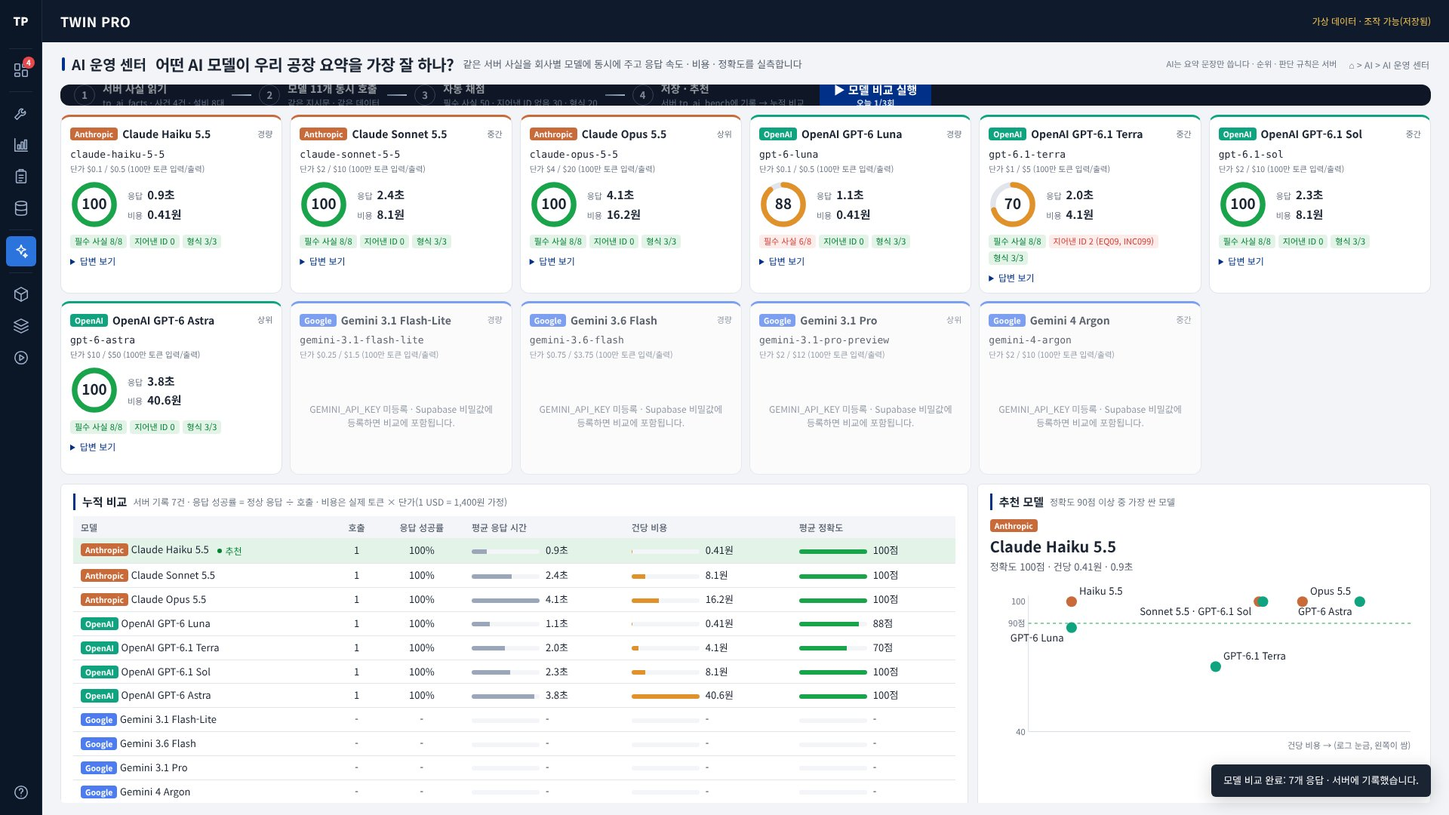
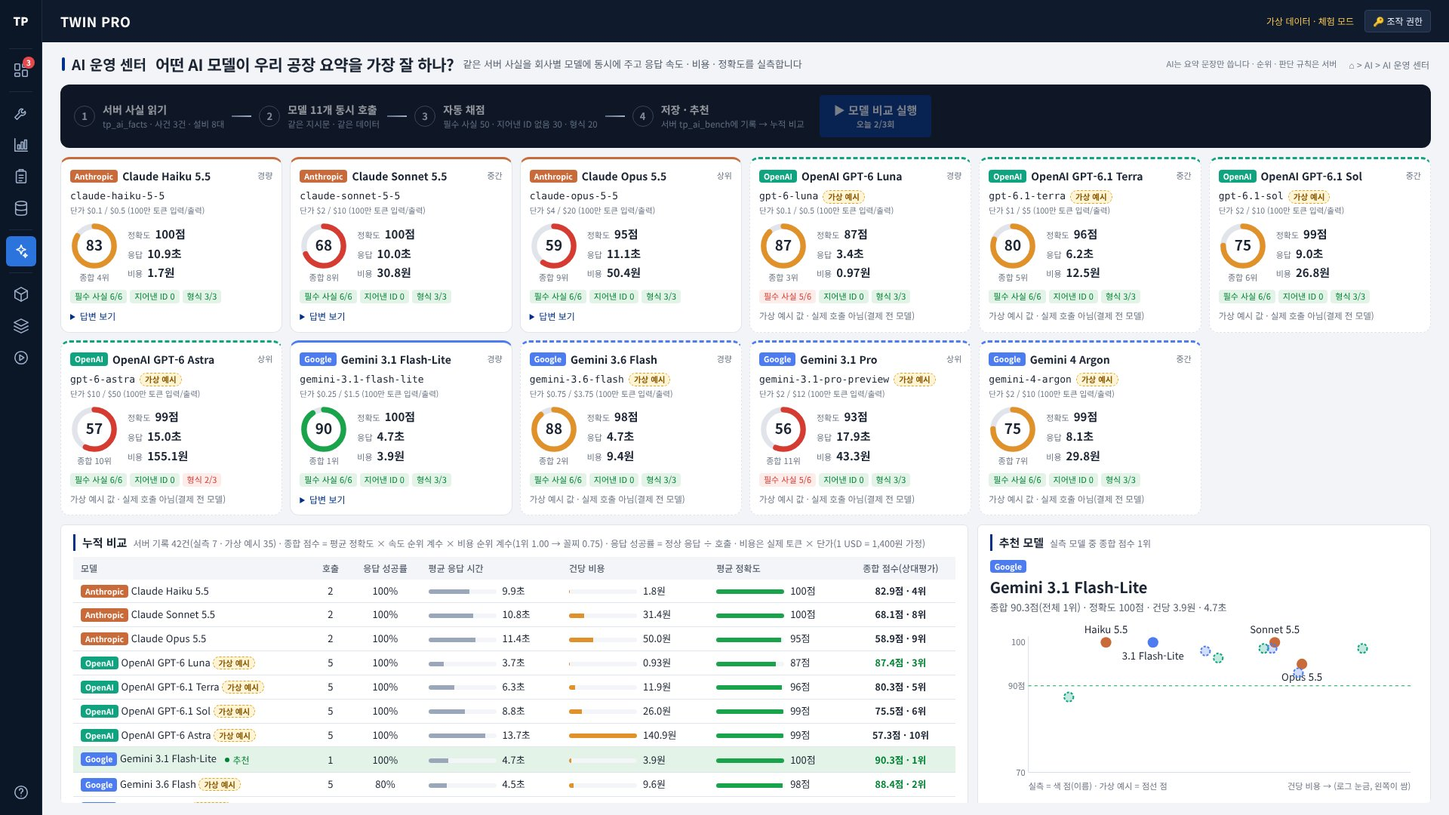
README 2026-11-01 반영: AI 하루 10회 · 확장 SQL 한 번에 적용 · 휴대폰 화면 3개 · AI 운영 센터 상대평가와 가상 예시 · 검증 결과
Claude-Session: https://claude.ai/code/session_0118yJohinjDPUbRGhyax1CZ

Changed region(s): [[0.0312, 0.0917, 1.0, 0.9778], [0.7188, 0.8861, 1.0, 1.0], [0.875, 0.0, 1.0, 0.0611]]

diff --git a/README.md b/README.md
@@ -46,7 +46,7 @@
 조선 블록 제작 운영 모니터링 시연 시스템입니다. 관제·관리 화면 5개(01H 확정안: 관제 대시보드 · 설비 상태 · 생산 현황 · 작업 관리 · 기준정보)와 3D 확장 화면(3D 조선소 · 블록 내부 3D · 공정 교육 재생), Supabase(Postgres) 서버 함수로 구성되어 있으며, 받은 엑셀(`02 가상데이터.xlsx`) 15개 시트를 그대로 DB에 올려 사용합니다.
 
 - 화면 주소: **https://develop-korea-tech.github.io/twinpro-demo/** (GitHub Pages, 저장소 develop-korea-tech/twinpro-demo)
-- 화면 파일: `index.html` 한 파일(2026-10-24 빌드, 이후 사이드바 수정 포함). 전체 소스 패키지에서는 같은 빌드 결과물의 이름이 `twinpro.html`입니다. 이 문서에서는 화면 파일을 모두 `index.html`로 적습니다.
+- 화면 파일: `index.html` 한 파일(2026-11-01 빌드). 전체 소스 패키지에서는 같은 빌드 결과물의 이름이 `twinpro.html`입니다. 이 문서에서는 화면 파일을 모두 `index.html`로 적습니다.
 - 서버: Supabase 프로젝트 `twinpro-demo`(서울 리전)
   - 주소: `https://rrgvqgphhwzkeuvdwndu.supabase.co` (`index.html`에 이미 들어 있습니다)
   - 시연 코드: 팀 단톡방에서 따로 공유합니다.
@@ -62,17 +62,20 @@
 
 | 파일 | 크기 | 설명 |
 |---|---|---|
-| `index.html` | 약 1.9MB | 시연 화면(2026-10-31 빌드, 관리 화면 3개 [그림] 보기 · 작업 관리 우선순위 추가 · 기준정보는 표만). 화면 코드(계산 · 서버 연결 · 화면 · 3D), 그림 자료(사건 설명도 3개, 공정 썸네일 6장, 아이콘), 서버 주소와 공개(anon) 키가 한 파일에 들어 있습니다. 데이터 행은 들어 있지 않고, 열 때마다 서버에서 읽습니다. 전체 소스 패키지의 `twinpro.html`과 같은 빌드 결과물입니다. |
+| `index.html` | 약 2.1MB | 시연 화면(2026-11-01 빌드: 휴대폰 화면 3개만 · AI 요약 하루 10회 · AI 운영 센터 상대평가 종합 점수와 가상 예시 표시). 화면 코드(계산 · 서버 연결 · 화면 · 3D), 그림 자료(사건 설명도 3개, 공정 썸네일 6장, 아이콘), 서버 주소와 공개(anon) 키가 한 파일에 들어 있습니다. 데이터 행은 들어 있지 않고, 열 때마다 서버에서 읽습니다. 전체 소스 패키지의 `twinpro.html`과 같은 빌드 결과물입니다. |
 | `twinpro_shipyard.glb` | 약 7.5MB | 3D 조선소 모델(Blender에서 내보낸 glTF). `index.html`과 **같은 폴더**에 있어야 3D 조선소 · 공정 교육 재생 화면이 열립니다. |
 | `favicon.svg` · `favicon.png` | 약 1KB · 9KB | 브라우저 탭 아이콘 원본(어두운 남색 바탕에 실제 블록(입체) + 디지털 쌍둥이(하늘색 윤곽)). `index.html` 안에 이미 넣어 두어 이 파일이 없어도 탭에 아이콘이 나옵니다. |
 | `supabase_priority.sql` | 약 8KB | 작업 관리 우선순위 확장 SQL(2026-10-31): 온톨로지 뷰 `tp_v_ontology`, 순위 함수 `tp_priority()`, AI 우선순위 요약 저장 표 `tp_ai_priority`와 함수, 보안 설정. 기존 표 · 함수는 바꾸지 않고 추가만 합니다(2-1). |
 | `supabase_equipment.sql` | 약 31KB | 설비 붙이기 / 없애기 SQL(2026-10-31): 설비 사용 여부 칸 `active`, 추가 `tp_equipment_add` · 사용 중지 `tp_equipment_set_active` · 삭제 `tp_equipment_delete`, 초기화 때 원본 8대로 복원. 사용 중지 설비를 상태 개수 · AI 사실 · 대체 후보 · 설비 변경 · 신호 입구에서 빼도록 기존 함수 7개를 조건 한 줄을 더해 다시 만듭니다. **다른 확장 SQL 4개를 먼저 실행한 뒤** 실행합니다. 적용 전에는 설비 탭이 읽기 전용으로 보입니다. |
+| `supabase_1101_all.sql` | 약 63KB | 확장 SQL 한 번에 적용(2026-11-01): `supabase_priority.sql` → `supabase_io.sql` → `supabase_live.sql` → `supabase_ai_bench.sql` → `supabase_equipment.sql` → `supabase_ai_limit10.sql`을 이 순서로 이어 붙인 파일입니다. 새 서버에는 `supabase_setup.sql` 다음에 이 파일 하나만 실행하면 됩니다. 시연 서버에는 2026-11-01에 적용했습니다. |
+| `supabase_ai_limit10.sql` | 약 1KB | AI 요약 하루 사용 한도를 5회 → 10회로 바꾸는 SQL(2026-11-01, `tp_ai_claim` 다시 만듦). `supabase_1101_all.sql`에 포함되어 있습니다. |
+| `supabase_ai_bench_example.sql` | 약 9KB | AI 운영 센터 **가상 예시** 기록(2026-11-01): `tp_ai_bench`에 `simulated` 칸을 추가하고, 결제 전이라 실측하지 못한 7개 모델(GPT 4개, Gemini 3.6 Flash · 3.1 Pro · 4 Argon)에 모델별 5회 예시 값을 넣습니다. 실제 호출 결과가 아닙니다. 화면은 「가상 예시」 배지로 구분하고 추천에서 뺍니다. 지울 때는 `delete from tp_ai_bench where simulated;` 한 줄이면 됩니다. |
 | `supabase_ai_bench.sql` | 약 9KB | AI 운영 센터 SQL(2026-10-31): 비교 모델 목록 · 단가 `tp_ai_model`, 실측 기록 `tp_ai_bench`, 하루 3회차 제한, 자동 채점 `tp_ai_bench_score`, 저장 `tp_ai_bench_save`(Edge Function 전용) |
 | `supabase/functions/tp-ai-summary/index.ts` | 약 9KB | AI Edge Function 코드: 운영 요약 · 우선순위 요약 · 모델 비교(mode = 'bench', Anthropic · OpenAI · Google). 키는 Supabase 비밀값에만 둡니다 |
 | `supabase_live.sql` | 약 9KB | 운영 추이 연출 SQL(2026-10-31): 설비별 일 집계 `tp_daily`(2026-01-01~09-15 가상 이력 + 09-16 기준일 + 연출일), 당일 데이터 `tp_live_signal`(시스템 입력 + 설비 신호), 생성 함수, 1분 예약 작업 `tp_live_tick`(pg_cron). 적용 전에도 화면은 같은 식으로 계산해 동작합니다. |
 | `supabase_io.sql` | 약 6KB | 현장 데이터 수집 연결 확장 SQL(2026-10-31): 수집 포인트 표 `tp_io_point`(설비 8대 × 3포인트, 가상 기준정보), 신호 기록에 출처(SIM · MODBUS · ETOS) 칸 추가, 신호 입구 `tp_ingest_signal`에 출처 인자 추가(기존 호출은 그대로 동작). 적용 전에도 화면은 같은 정의의 기본값으로 동작합니다. |
 | `tools/io_bridge/` | 약 30KB | 연결 프로그램(파이썬, 설치 불필요): LS XGT PLC(Modbus TCP) · AC&T ETOS(XGT FEnet) 값을 읽어 서버 입구로 보냄 + 가상 현장 장비. 사용법은 폴더 안 `README.md` |
-| `docs/screen-ai.jpg` | 약 250KB | 화면 캡처: AI 운영 센터(모델 11개의 응답 시간 · 비용 · 정확도, 누적 비교 · 추천) |
+| `docs/screen-ai.jpg` | 약 300KB | 화면 캡처: AI 운영 센터(모델 11개의 종합 점수 · 응답 시간 · 비용 · 정확도, 「가상 예시」 배지, 누적 비교 · 추천, 2026-11-01) |
 | `docs/screen-base-eq.jpg` | 약 200KB | 화면 캡처: 기준정보 → 설비(설비 추가 · 사용 중지 · 삭제) |
 | `docs/screen-trend.jpg` | 약 200KB | 화면 캡처: 생산 현황 [추이](연간 월별 가동률 · 일별 · 당일 데이터 수집) |
 | `docs/screen-io.jpg` | 약 250KB | 화면 캡처: 현장 데이터 수집 연결 구조(통합 관제 「데이터 수집」 칩) |
@@ -123,7 +126,7 @@
    - 카드 바깥을 누르거나 Esc를 누르면 재생 없이 닫힙니다.
    - 한 번 닫으면 이 브라우저에서는 다시 뜨지 않습니다. 왼쪽 사이드바 맨 아래 안내 아이콘(휴대폰에서는 오른쪽 위 [? 안내])을 누르면 다시 열립니다.
 3. **왼쪽 사이드바와 위쪽 막대를 확인합니다.** 모든 화면에 같습니다.
-   - 왼쪽 아이콘 사이드바(2026-10-24): 위에서부터 모니터링(통합 관제), 관리(설비 상태 · 생산 현황 · 작업 관리 · 기준정보), 3D(3D 조선소 · 블록 내부 3D · 공정 교육 재생), 맨 아래 안내. 폭은 늘 56px로 내용을 가리지 않고, 아이콘에 마우스를 올리면 그 아이콘 옆에만 이름표가 나옵니다. 지금 화면은 파란색, 통합 관제 아이콘의 빨간 숫자는 미해결 사건 수입니다. 처음 화면은 통합 관제(관제 대시보드)입니다. 폭 760px 이하(휴대폰)에서는 사이드바 대신 위쪽 탭과 [관리 화면 ▾]가 나옵니다.
+   - 왼쪽 아이콘 사이드바(2026-10-24): 위에서부터 모니터링(통합 관제), 관리(설비 상태 · 생산 현황 · 작업 관리 · 기준정보), 3D(3D 조선소 · 블록 내부 3D · 공정 교육 재생), 맨 아래 안내. 폭은 늘 56px로 내용을 가리지 않고, 아이콘에 마우스를 올리면 그 아이콘 옆에만 이름표가 나옵니다. 지금 화면은 파란색, 통합 관제 아이콘의 빨간 숫자는 미해결 사건 수입니다. 처음 화면은 통합 관제(관제 대시보드)입니다. 폭 760px 이하(휴대폰)에서는 사이드바 대신 위쪽 탭이 나오고, 2026-11-01부터 **통합 관제 · 블록 내부 3D · 공정 교육 재생 3개만** 보입니다(3D 조선소 · 관리 화면 버튼 숨김). 휴대폰에서 다른 화면 주소(#eq 등)로 들어오면 통합 관제로 돌아갑니다. 발표 표지의 QR 코드는 이 화면 주소로 연결됩니다.
    - 가운데: 사건을 선택하면 「◎ 추적 중: B008 · 03 블록 용접 · 설비 고장」처럼 추적 중인 사건이 표시됩니다. ✕를 누르면 해제됩니다.
    - 위쪽 막대 오른쪽: 「가상 데이터 · 체험 모드」(조작 권한이 있으면 「가상 데이터 · 조작 가능(저장됨)」) · [🔑 조작 권한]
    - 화면을 바꾸면 주소 끝이 `#dash`(통합 관제), `#3d`(3D 조선소), `#blk`(블록 내부 3D), `#eq` · `#prod` · `#wo` · `#base`(관리 화면 4개)로 바뀝니다. 이 주소로 열거나 새로고침하면 그 화면이 바로 열립니다. 주소 끝은 화면을 처음 열 때만 읽으므로, 주소 끝만 고친 뒤에는 새로고침합니다.
@@ -142,7 +145,7 @@
    - 설비 그림(2026-10-30 교체): 3D 조선소 모델에서 공정마다 설비만 떼어 같은 각도로 렌더한 그림입니다(바닥 · 도로 · 다른 공정은 지움, 투명 배경). 그래서 3D 화면과 모양 · 색이 같습니다. 01 자기 갠트리 크레인과 강재, 02 취부 작업장과 갠트리, 03 용접동 천장 크레인과 블록(지붕 · 벽을 걷어 냄), 04 검사 블록과 측정 타워, 05 도장 부스(벽을 반투명으로)와 블록, 06 블록 운반차입니다. 대기·예비 설비 아이콘은 03 용접동의 이동식 용접기 모델입니다.
    - 카드를 누르면 지도 아래에 「<블록> 상세」(작업지시 · 담당 · 선행 공정 · 위치 · 실적/계획)와 [🔍 내부 현황 (3D)] 버튼(블록 내부 3D로 이동)이 열립니다. 카드를 누르기 전에는 같은 자리에 같은 높이의 안내 줄이 있어서, 눌러도 화면이 위아래로 움직이지 않습니다.
    - 「오늘 공정 타임라인」: 공정 6곳의 08:00~16:00 상태 구간 막대입니다(가동 파랑 · 대기 회색 · 고장 빨강 · 점검 보라). 12:00 세로선 왼쪽은 실적, 오른쪽 빗금은 계획 구간입니다. 사건이 난 시각에 「설비 고장」 · 「자재 대기」 · 「품질 보류」 표시가 붙고, 범례에는 상태별 누적 시간이 나옵니다.
-   - 오른쪽 카드(2026-10-31 정리): 「지금 확인할 것」 하나로, 탭 없이 버튼은 [작업 관리 ›] 하나입니다. 위에서부터 지금 상황 한 줄(「12:00 기준 6개 공정 중 1개 가동 · 실적 74% / 계획 100% · 26%p 지연」) → **AI 운영 요약**(AI(Claude)가 만든 요약, 조작 권한 필요 · 하루 5회. 생성 전에는 「규칙 문장 · AI 생성 전」 표시와 함께 규칙으로 만든 문장을 보여 줌) → **처리 순서** 1·2·3(작업 관리 우선순위와 같은 계산, 각 줄에 지금 단계 표시) → 맨 아래 [요약 복사]입니다.
+   - 오른쪽 카드(2026-10-31 정리): 「지금 확인할 것」 하나로, 탭 없이 버튼은 [작업 관리 ›] 하나입니다. 위에서부터 지금 상황 한 줄(「12:00 기준 6개 공정 중 1개 가동 · 실적 74% / 계획 100% · 26%p 지연」) → **AI 운영 요약**(AI(Claude)가 만든 요약, 조작 권한 필요 · 하루 10회. 생성 전에는 「규칙 문장 · AI 생성 전」 표시와 함께 규칙으로 만든 문장을 보여 줌) → **처리 순서** 1·2·3(작업 관리 우선순위와 같은 계산, 각 줄에 지금 단계 표시) → 맨 아래 [요약 복사]입니다.
    - 처리 순서의 줄이나 [작업 관리 ›]를 누르면 작업 관리 [우선순위] 화면으로 넘어가고, 누른 사건이 선택된 채로 열립니다. 재생 중이면 재생이 자동으로 멈추고 위쪽에 「추적 중」 칩이 나옵니다. 기준시점 미해결 사건은 INC003 설비 고장 · INC004 자재 대기 · INC005 품질 보류 3건입니다.
    - 이전의 「규칙 기반 · AI 요약 · 통계 감지」 탭과 관제 안의 사건 목록 · 처리 단계는 없앴습니다. 사건 처리는 작업 관리 우선순위 카드에서 합니다(6번).
    - 이전 화면의 「작업지시 현황」 표와 「공정별 달성률」 고리 패널은 없앴습니다. 같은 정보가 지도 카드(진행률 고리 · 작업지시)와 작업 관리 화면에 있습니다.
@@ -167,7 +170,7 @@
      - 작업 관리 [우선순위]: 아래 「우선순위 화면 사용법」을 봅니다. [일정표]는 공정 6줄 × 오늘 · 내일 계획 시간에 작업 막대를 놓고, 지금 시각 선과 고장 설비에 잡힌 예정 작업(⚠)을 보여 줍니다.
      - 기준정보는 [그림] 보기가 없습니다(2026-10-31 삭제). 공정 순서 · 설비 사진이 관제 지도 · 설비 지도와 겹쳐서, 기준값을 보는 표만 둡니다.
    - **우선순위 화면 사용법 (작업 관리 · 2026-10-31)**
-     1. 맨 위 요약 문장이 "지금 무엇부터"를 한 문단으로 알려 줍니다. 기본은 규칙으로 만든 문장(「규칙 요약」)입니다. 조작 권한이 있고 서버에 확장(2-1)이 있으면 [AI로 요약]을 눌러 AI 문장으로 바꿀 수 있습니다(AI 운영 요약과 합쳐 하루 5회). AI는 서버가 정한 순서를 문장으로만 옮기고, 순서를 바꾸지 않습니다. 시각이 바뀌면 이전 AI 문장은 숨기고 규칙 문장을 보여 줍니다.
+     1. 맨 위 요약 문장이 "지금 무엇부터"를 한 문단으로 알려 줍니다. 기본은 규칙으로 만든 문장(「규칙 요약」)입니다. 조작 권한이 있고 서버에 확장(2-1)이 있으면 [AI로 요약]을 눌러 AI 문장으로 바꿀 수 있습니다(AI 운영 요약과 합쳐 하루 10회). AI는 서버가 정한 순서를 문장으로만 옮기고, 순서를 바꾸지 않습니다. 시각이 바뀌면 이전 AI 문장은 숨기고 규칙 문장을 보여 줍니다.
      2. 카드 1·2·3은 미해결 사건을 아래 기준 순서로 줄 세운 결과입니다. 예측은 쓰지 않고 지금 기록만 씁니다.
         - ① 공정 전체가 막혔나: 공정 설비가 고장이고 작업이 아직 그 설비에 있음(대체 설비로 옮기면 해제)
         - ② 작업이 지금 멈춰 있나: 연결된 작업이 보류이거나 품질 보류 중
@@ -201,7 +204,7 @@
 
 1. **확장 SQL 실행**
    1. Supabase 대시보드 → 대상 프로젝트 → 왼쪽 메뉴 **SQL Editor** → **New query**를 엽니다.
-   2. 전체 소스 패키지의 확장 SQL 내용을 붙여 넣고 **Run**을 누릅니다. 이전 문서 기준으로 `supabase_step3.sql`(AI 운영 요약·가상 설비 신호·실적 가져오기)이고, 재생 잠금 · 체험 모드는 `sql/07`~`sql/10`에 있습니다. 사건 처리 단계 · 대체 적합성용 SQL의 파일 이름은 이 저장소에서 확인할 수 없습니다.
+   2. 이 저장소의 `supabase_1101_all.sql` 내용을 붙여 넣고 **Run**을 누릅니다(우선순위 · 현장 연결 · 운영 추이 · AI 운영 센터 · 설비 붙이기 / 없애기 · AI 하루 10회가 한 번에 들어갑니다). 그 이전 확장은 전체 소스 패키지의 확장 SQL에 있습니다. 이전 문서 기준으로 `supabase_step3.sql`(AI 운영 요약·가상 설비 신호·실적 가져오기)이고, 재생 잠금 · 체험 모드는 `sql/07`~`sql/10`에 있습니다. 사건 처리 단계 · 대체 적합성용 SQL의 파일 이름은 이 저장소에서 확인할 수 없습니다.
    3. `Success. No rows returned`가 나오면 성공입니다.
 2. **Claude API 키 등록** (AI 운영 요약에만 필요)
    1. Claude Console의 API keys 페이지(https://platform.claude.com/settings/keys)에서 **Create key**로 키를 만듭니다. 키 전체는 만들 때 한 번만 보이니 바로 복사합니다.
@@ -211,7 +214,7 @@
    5. 새 서버라면 Edge Function 배포도 필요합니다(5장 6번).
 3. **화면을 새로고침해 확인합니다.**
    - 가상 시각 옆 ▶를 눌러 오류 없이 시각이 12:05로 바뀌면 재생에 필요한 함수가 들어간 것입니다(체험 모드는 `tp_try_steps`, 조작 권한이면 재생 잠금 · 신호 함수).
-   - 조작 권한을 받은 상태에서 관제 대시보드 「운영 요약」의 「AI 요약」 탭에 [✦ AI 요약 생성 오늘 남은 5회] 버튼이 보이고, 눌렀을 때 요약 문장이 나오면 AI 요약이 준비된 것입니다(하루 5회 중 1회를 씁니다).
+   - 조작 권한을 받은 상태에서 관제 대시보드 「운영 요약」의 「AI 요약」 탭에 [✦ AI 요약 생성 오늘 남은 10회] 버튼이 보이고, 눌렀을 때 요약 문장이 나오면 AI 요약이 준비된 것입니다(하루 10회 중 1회를 씁니다).
 
 ---
 
@@ -315,7 +318,7 @@
 
 ### 3-3. 시연 시 주의
 
-- **AI 요약은 하루 5회**(전체 합산, 한국 시간 0시 초기화)입니다. 리허설에서도 줄어드니 발표 당일에는 아껴 씁니다. 남은 횟수는 버튼의 「오늘 남은 N회」로 봅니다. 다 쓰면 버튼이 비활성되고, 「규칙 기반 사실」 요약은 그대로 볼 수 있습니다.
+- **AI 요약은 하루 10회**(전체 합산, 한국 시간 0시 초기화, 2026-11-01에 5회 → 10회)입니다. 리허설에서도 줄어드니 발표 당일에는 아껴 씁니다. 남은 횟수는 버튼의 「오늘 남은 N회」로 봅니다. 다 쓰면 버튼이 비활성되고, 「규칙 기반 사실」 요약은 그대로 볼 수 있습니다.
 - AI 요약을 만든 뒤 시각이 바뀌거나 조작을 하면 「이후 변경 있음」이 표시됩니다. 다시 생성하면 최신이 됩니다.
 - 사건을 선택하면 가상 시간 재생이 자동으로 멈춥니다. 처리한 뒤 다시 ▶를 누릅니다.
 - 시연이 끝나면 2장 9번대로 초기화합니다. 같은 서버를 보는 모든 화면이 함께 되돌아가니, 팀원이 연습 중일 때는 미리 알리고 누릅니다.
@@ -382,9 +385,9 @@
 | `tp_try_steps` | 체험 모드: 처리 단계(act · check · fit · approve · swap · resume · close · resolve)와 시간 진행(tick)을 코드 없이 실제 규칙으로 실행 → 결과 행을 돌려주고 전부 되돌림(저장 안 됨). 이 함수 안에서만 시연 코드 검사를 통과시킴 | 체험 모드의 처리 단계 · 재생 |
 | `tp_sim_claim` / `tp_sim_release` | 재생 잠금(`tp_sim_lock`): 한 화면만 재생. 재생 중인 화면이 시간을 진행할 때마다 잠금을 연장하고, 멈추면 놓음 | 가상 시간 진행(조작 권한) |
 | `tp_import_progress` | 실적 가져오기: 행마다 R6 검사, 한 행이라도 거부되면 전체 취소(화면은 한 번에 최대 200행) | 작업 관리 [서버에 반영] |
-| Edge Function `tp-ai-summary` | AI 운영 요약: 시연 코드 확인 · 하루 5회 차감(`tp_ai_claim`) → DB 사실 JSON(`tp_ai_facts`) → Claude → 저장(`tp_ai_save`), 실패 시 횟수 복구. 이 서버 함수들은 화면에서 직접 부를 수 없습니다. 화면은 결과를 `tp_ai_summary`, 사용 횟수를 `tp_ai_usage`에서 읽음 | 「AI 요약」 [✦ AI 요약 생성] |
+| Edge Function `tp-ai-summary` | AI 운영 요약: 시연 코드 확인 · 하루 10회 차감(`tp_ai_claim`) → DB 사실 JSON(`tp_ai_facts`) → Claude → 저장(`tp_ai_save`), 실패 시 횟수 복구. 이 서버 함수들은 화면에서 직접 부를 수 없습니다. 화면은 결과를 `tp_ai_summary`, 사용 횟수를 `tp_ai_usage`에서 읽음 | 「AI 요약」 [✦ AI 요약 생성] |
 | `tp_v_ontology` (뷰) · `tp_priority` | 작업 관리 우선순위(`supabase_priority.sql`): 서버 표를 (주어, 관계, 목적어)로 펼친 관계 뷰 — 공정 · 작업구역 · 설비 · 블록 · 다음 공정 · 발생 설비 · 멈춘 작업 · 대체 가능. `tp_priority()`는 이 관계만 따라가 미해결 사건마다 기준 4개(공정 전체 막힘 · 작업 멈춤 · 멈춘 시간 · 밀리는 작업)를 계산해 순위 JSON을 돌려줍니다. 화면(`src/model.js`의 `ontology()` · `priorities()`)과 같은 정의이고, 자동 테스트가 두 결과가 같은지 확인합니다 | 작업 관리 [우선순위] |
-| Edge Function `tp-ai-summary` (`mode: 'priority'`) | AI 우선순위 요약: 같은 하루 5회 차감 → `tp_ai_priority_facts`(서버 순위 + 근거 관계) → Claude(순서를 바꾸지 말고 문장으로만, 250자 이내) → `tp_ai_save_priority` → `tp_ai_priority`. 저장 · 사실 함수는 Edge Function(service_role)만 호출 가능 | 작업 관리 [AI로 요약] |
+| Edge Function `tp-ai-summary` (`mode: 'priority'`) | AI 우선순위 요약: 같은 하루 10회 차감 → `tp_ai_priority_facts`(서버 순위 + 근거 관계) → Claude(순서를 바꾸지 말고 문장으로만, 250자 이내) → `tp_ai_save_priority` → `tp_ai_priority`. 저장 · 사실 함수는 Edge Function(service_role)만 호출 가능 | 작업 관리 [AI로 요약] |
 
 ### 외부 시스템 연동 지점 (확장 구조)
 
@@ -400,7 +403,8 @@
 | 비용 | 실제 입력 · 출력 토큰 × `tp_ai_model` 단가(USD / 100만 토큰), 화면은 1 USD = 1,400원으로 환산 |
 | 정확도(100점) | 자동 채점. 필수 사실 50점(미해소 사건 ID와 그 설비 ID가 답에 있는지) · 지어낸 ID 없음 30점(서버 사실에 없는 INC · EQ · WO · 블록 ID) · 형식 20점(세 제목 · 800자 이내) |
 | 응답 성공률 | 정상 응답 ÷ 호출 |
-| 추천 | 평균 정확도 90점 이상 중 건당 비용이 가장 싼 모델 |
+| 종합 점수(상대평가, 2026-11-01) | 평균 정확도 × 속도 순위 계수 × 비용 순위 계수. 계수는 비교한 모델 사이 순위로 1위 1.00 → 꼴찌 0.75(등 간격). 정확도가 100점이어도 가장 빠르고 가장 싼 모델이 아니면 100점이 되지 않습니다. 카드의 큰 숫자와 표의 「종합 점수(상대평가)」가 이 값이고, 순위는 종합 점수 순입니다 |
+| 추천 | 실측 모델 중 종합 점수 1위(가상 예시는 제외). 2026-10-31판은 「정확도 90점 이상 중 가장 싼 모델」이었습니다 |
 
 **비교 모델(기본 11개, `tp_ai_model`에서 추가 · 수정)**
 
@@ -416,9 +420,16 @@
 
 **키 등록:** Supabase → Edge Functions → Secrets에 `ANTHROPIC_API_KEY` · `OPENAI_API_KEY` · `GEMINI_API_KEY`를 등록합니다. 키가 없는 회사 모델은 카드에 「키 미등록」으로 표시되고 비교에서 빠집니다.
 
+**시연 서버 현황(2026-11-01):** 키 3개를 모두 등록했습니다. 실측에 성공한 모델은 Claude Haiku · Sonnet · Opus와 Gemini 3.1 Flash-Lite 4개입니다. OpenAI 4개는 계정 크레딧이 없어(「You have no credits remaining」), Gemini 3.1 Pro · 4 Argon은 무료 키 한도 밖이라 호출이 거부됐고, Gemini 3.6 Flash는 구글 서버 혼잡으로 실패했습니다. 이 7개 모델은 `supabase_ai_bench_example.sql`의 **가상 예시**로 화면을 채웠습니다(카드 · 표에 「가상 예시」 배지, 점선 테두리, 산점도는 점선 점). 결제를 등록하고 다시 실행하면 실측 기록이 쌓이고, 그때 가상 예시를 지우면 됩니다.
+
+**가상 예시 표시 규칙:** 가상 예시 기록이 있는 모델은 누적 비교를 가상 예시 기록만으로 계산합니다(실제 실패 기록과 섞지 않음). 오늘 실행 횟수(하루 3회차)에도 세지 않습니다. 누적 비교 제목 옆에 「실측 n · 가상 예시 n」 건수를 따로 보여 줍니다.
+
+**출력 한도:** 모델 비교의 출력 토큰 한도는 4000입니다(운영 요약 4000, 우선순위 요약 2000). 최신 모델은 답 전에 생각(thinking) 토큰을 먼저 써서, 한도가 1000이면 본문이 비는 일이 있었습니다(2026-11-01 실측, Edge Function v4).
+
 **적용 순서:**
-1. `supabase_ai_bench.sql`을 실행합니다.
+1. `supabase_ai_bench.sql`을 실행합니다(`supabase_1101_all.sql`을 실행했다면 이미 들어 있습니다).
 2. `supabase/functions/tp-ai-summary/index.ts`를 Edge Function `tp-ai-summary`로 다시 배포합니다.
+3. (선택) 결제 전 모델 칸을 채우려면 `supabase_ai_bench_example.sql`을 실행합니다. 실측이 아니므로 발표 · 질의응답에서 「가상 예시」라고 밝힙니다.
 
 #### 설비 붙이기 / 없애기 (2026-10-31)
 
@@ -612,6 +623,7 @@ node e2e.js                              # 결과: e2e_result.json, 스크린샷
 
 ## 7. 검증 결과
 
+- 2026-11-01 빌드(휴대폰 화면 3개 · AI 하루 10회 · AI 운영 센터 상대평가 · 가상 예시): 자동 테스트 179/179 통과. 추가 확인: AI 하루 10회(10/10 → 9/10, 10회 초과 거부), 휴대폰 폭에서 관리 화면 주소로 들어오면 통합 관제로 이동, 폭 1568×698 · 1920×1080에서 AI 운영 센터 단계 띠가 눌리지 않음, 가상 예시가 있을 때 카드 · 표 배지 · 추천 제외 · 종합 점수 순위(로컬 미리보기). 실제 서버: `supabase_1101_all.sql` · `supabase_ai_bench_example.sql` 적용, Edge Function v4 배포, 모델 비교 실측 3회(Claude 3개 · Gemini Flash-Lite 성공), 첫 회차는 출력 한도 버그(본문 비어 30점)라 기록 3건을 지웠습니다.
 - 2026-10-31 빌드(AI 모델 11개 · 설비 붙이기 / 없애기): 자동 테스트 179/179 통과. 추가 검사: 모델 카드 11(Anthropic 3 · OpenAI 4 · Google 4), 서버 기록 7건(Google 키 미등록 건너뜀), 표 11행 · 산점도 점 7개. 설비 추가(EQ09 · 수집 포인트 3개 · 「확인 필요」) → 설비 상태 카드 9 · 관제 KPI n / 9 · 대기 · 예비 설비 · 대체 후보(화면 · 서버 우선순위) · 수집 포인트 27개, 겹치는 ETOS 주소 거부, 가동 중 설비 사용 중지 거부, 사용 중지 설비는 신호 입구 거부 · 대체 가능 관계 제외 · 설비 상태 카드 제외, 기록 없는 추가 설비 삭제(두 번 눌러 확인), 원본 설비 삭제 거부, [데이터 초기화] 후 원본 8대 복원.
 - 2026-10-31 빌드(AI 운영 센터 · 움직임 강화): 자동 테스트 165/165 통과. 추가 검사: 모델 카드 6(Anthropic 3 · OpenAI 2 · Google 1), 모델마다 따로 끝남(호출 중 · 끝난 카드가 함께 보임), 서버 기록(응답 시간 · 비용 · 점수), 키 미등록 회사 건너뜀, 자동 채점(빠진 사실 감점 · 지어낸 ID 30점 감점), 추천(90점 이상 중 최저 비용), 하루 3회차 · 시연 코드 제한. 테스트에서는 회사 API 대신 사실로 만든 고정 문장과 고정 지연(테스트 대역)을 씁니다.
 - 2026-10-31 빌드(운영 추이 연출 1분 = 1일): 자동 테스트 160/160 통과. 추가 검사: 서버 생성식 = 화면 계산식(9일 × 설비 8대 일 집계 · 당일 데이터 일치), 가상 이력 258일 + 기준일, 1분 작업이 그 시각의 날짜를 만들고 마감일을 집계, 시스템 입력 신호, 생산 현황 [추이] 월 12칸 · 일별 31칸, 관제 「당일 데이터 수집」 칩 1초 갱신, 폭 400px 가로 스크롤 없음.
@@ -625,7 +637,7 @@ node e2e.js                              # 결과: e2e_result.json, 스크린샷
   - 우선순위 카드에서 처리 단계 6개 실행 → DB 저장(WO008-03 EQ07로 이관 · 진행) → 순위 재계산 후에도 화면 = 서버, 처리 중인 카드 선택 유지
   - AI 우선순위 요약: 서버 순위 사실로 생성 · 저장(테스트에서는 Claude 대신 고정 문장)
   - 일정표: 오늘 · 내일 막대, 지금 선, 고장 설비에 잡힌 예정 작업 경고
-  - 실제 Supabase에는 `supabase_priority.sql`과 Edge Function 2026-10-31 판이 **아직 적용되지 않았습니다**. 적용 전에도 우선순위 순서 · 처리 단계 · 근거 연결은 동작하고, [AI로 요약] 버튼만 숨겨집니다.
+  - (2026-11-01 갱신) 실제 Supabase에 `supabase_priority.sql`(`supabase_1101_all.sql`에 포함)과 Edge Function을 적용했습니다. 이 빌드 시점에는 적용 전이었고, 그때도 우선순위 순서 · 처리 단계 · 근거 연결은 동작하고 [AI로 요약] 버튼만 숨겨졌습니다.
 
 - 2026-10-24 빌드(`index.html`, 3D 관제 연출 · 왼쪽 아이콘 사이드바 추가): 로컬 Postgres + 실제 화면 클릭 자동 테스트 132/132 통과. 기존 127개(관제 · 사건 7단계 · 체험 모드 · 블록 내부 3D · 공정 교육 재생 등)에 3D 관제 5개(KPI · 알람 · 운영 브리핑, 사건 현장의 영향 상자 · 말풍선 · 절차 · 근거, 3D에서 1단계 실행 후 결과 3줄 · 처리 기록 · 공정 색 유지, 평면 보기, 자동 순회 · 톤 전환)를 더했습니다. 외부 QC(GPT, 독창성 20 · 수요기업 20 · 초보 UX 20 · 구현 난이도 10 · 시나리오 30) 3차 97점.
 - 아래 자동 테스트 결과는 전체 소스 패키지의 기록(`e2e_result.json`, `supabase_live_result.txt`)에 있던 **이전 빌드** 기준입니다(쉬운 화면 · 문제 카드가 있던 판). 이 저장소에는 테스트 코드와 결과 파일이 없습니다. 현재 빌드의 결과는 바로 위 항목(132/132)입니다.
@@ -639,6 +651,7 @@ node e2e.js                              # 결과: e2e_result.json, 스크린샷
 - 실적 가져오기는 진행 중 작업의 누적 인정수량만 받고, 한 번에 200행까지입니다. 엑셀(.xlsx)은 첫 시트만 읽습니다(읽기 도구를 인터넷에서 불러오므로 오프라인이면 CSV를 씁니다).
 - 이전 문서 기준으로 AI 요약 결과와 신호 기록은 [데이터 초기화]로 지워지지 않습니다(기록으로 남김).
 - 호스팅 화면을 고치려면 저장소의 `index.html`을 새 빌드로 교체합니다(GitHub Pages가 자동으로 다시 배포). 3D 화면을 쓰려면 `twinpro_shipyard.glb`도 `index.html`과 같은 위치에 있어야 합니다.
+- AI 운영 센터의 OpenAI 4개 · Gemini 3.6 Flash · 3.1 Pro · 4 Argon 값은 **가상 예시**입니다(결제 전, 실제 호출 아님). 실측은 Claude 3개와 Gemini 3.1 Flash-Lite입니다.
 - 시연 계정 구분(누가 바꿨는지)은 없습니다. 시연 코드를 아는 사람은 모두 조작할 수 있습니다.
 - 3D 화면은 인터넷 연결이 필요하고, 저사양 노트북에서는 움직임이 느릴 수 있습니다. 공정 위치는 고정이라 새 공정을 추가하면 모델도 다시 만들어야 합니다.
 - `index.html`을 파일로 직접 열면(`file://`) 3D 조선소 · 공정 교육 재생의 모델을 읽지 못합니다(2장 1번).
